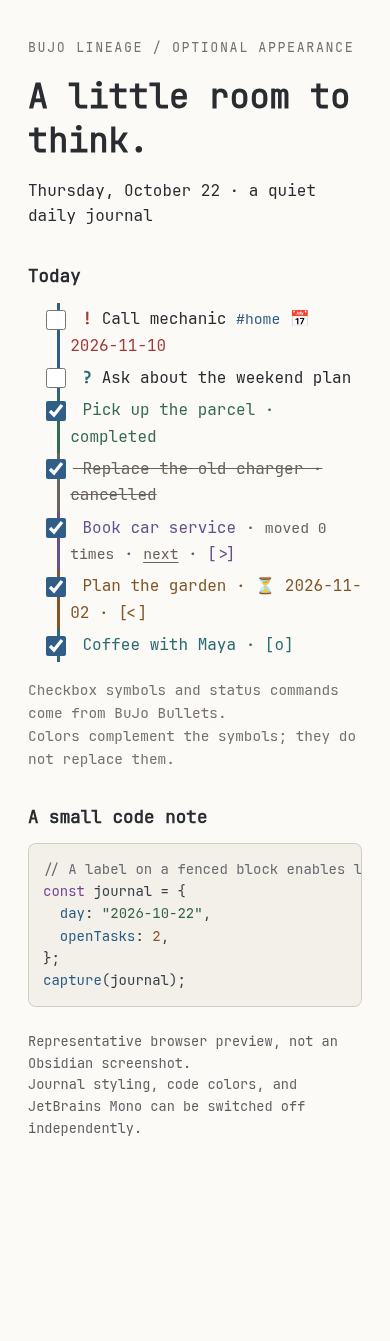
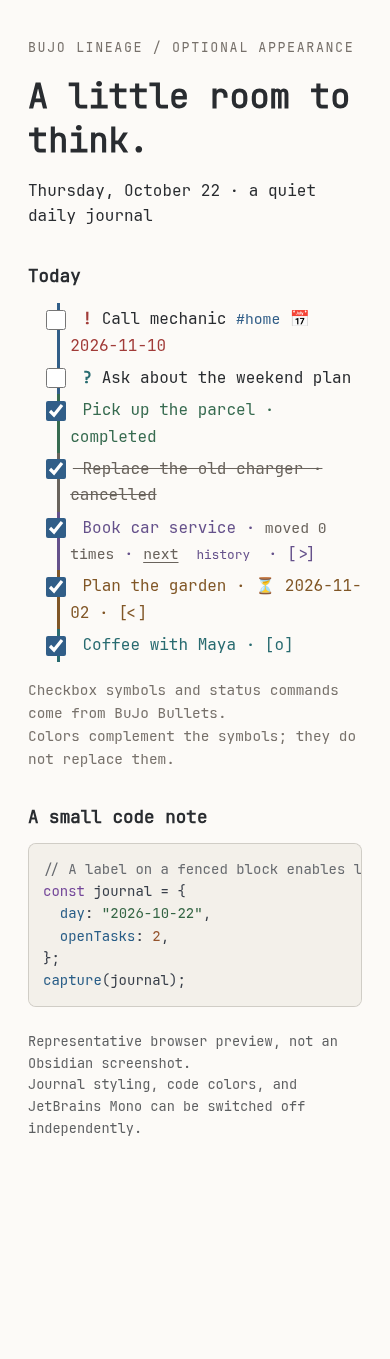
Collapse lineage metadata in Live Preview and clarify optional code colors

diff --git a/tests/appearance-browser.ts b/tests/appearance-browser.ts
@@ -1,7 +1,9 @@
 import {Appearance,decorateJournal,journalTokens} from '../src/appearance';
 import {journalHighlights} from '../src/editor-highlights';
 import {EditorView} from '@codemirror/view';
-import {EditorState} from '@codemirror/state';
+import {EditorState,StateField,StateEffect} from '@codemirror/state';
+import {metadataPreview} from '../src/metadata-preview';
+import {encode} from '../src/lineage';
 import {markdown} from '@codemirror/lang-markdown';
 const results:string[]=[];
 function check(ok:unknown,message:string) {if(!ok)throw Error(message);results.push(message);}
@@ -52,6 +54,32 @@ try {
   appearance.apply({journalStyling:false,codeHighlighting:false,preferJetBrainsMono:false});
   check(getComputedStyle(root).fontFamily===themeFont,'disabling font preference restores theme font');
   appearance.apply({journalStyling:false,codeHighlighting:false,preferJetBrainsMono:true});
+  const mode=StateEffect.define<boolean>();
+  const preview=StateField.define<boolean>({create:()=>true,update:(value,tr)=>{for(const effect of tr.effects)if(effect.is(mode))value=effect.value;return value;}});
+  const record={v:1 as const,lineage:'task-test',occurrence:'occ-test',count:1,previous:'occ-before',action:'migrate' as const,timestamp:'2026-10-21T18:00:00Z',operation:'op-test'};
+  const raw='- [ ] Call mechanic · moved 1 time · [[Yesterday#^occ-before|previous]] '+encode(record)+' ⏳ 2026-11-02 ^occ-test';
+  const host=document.createElement('div');root.append(host);let opened='';
+  const compact=new EditorView({state:EditorState.create({doc:raw,extensions:[markdown(),preview,metadataPreview(state=>state.field(preview),(v,p)=>{opened=v.state.doc.lineAt(p).text;})]}),parent:host});
+  check(host.querySelectorAll('.bujo-lineage-history-chip').length===1,'Live Preview replaces valid history metadata with one compact button');
+  check(!host.querySelector('.cm-content')!.textContent!.includes('%7B') && !host.querySelector('.cm-content')!.textContent!.includes('^occ-test'),'encoded metadata and the generated anchor stay out of visible task text');
+  check(host.querySelector('.cm-content')!.textContent!.includes('⏳ 2026-11-02'),'scheduled fields remain readable beside the compact history indicator');
+  check(compact.state.doc.toString()===raw,'compact metadata rendering preserves the complete stored Markdown');
+  (host.querySelector('.bujo-lineage-history-chip') as HTMLButtonElement).click();
+  check(opened===raw,'history button resolves its current task through editor position');
+  compact.dispatch({selection:{anchor:raw.indexOf('<!--')+20}});
+  check(host.querySelectorAll('.bujo-lineage-history-chip').length===1,'moving the cursor into metadata does not expose the encoded payload in Live Preview');
+  compact.dispatch({changes:{from:6,to:19,insert:'Phone garage'}});
+  (host.querySelector('.bujo-lineage-history-chip') as HTMLButtonElement).click();
+  check(opened===compact.state.doc.toString() && compact.state.doc.toString().includes(encode(record)),'editing task wording preserves metadata and history button targeting');
+  compact.dispatch({effects:mode.of(false)});
+  check(!host.querySelector('.bujo-lineage-history-chip') && host.textContent!.includes('%7B'),'Source mode reveals original raw metadata for inspection');
+  const invalid=raw.replace(encode(record),'<!--bujo-lineage:broken-->');
+  compact.dispatch({changes:{from:0,to:compact.state.doc.length,insert:invalid},effects:mode.of(true)});
+  check(!host.querySelector('.bujo-lineage-history-chip') && host.textContent!.includes('bujo-lineage:broken'),'malformed metadata remains visible for repair');
+  const fenced='```md\n'+raw+'\n```';
+  compact.dispatch({changes:{from:0,to:compact.state.doc.length,insert:fenced}});
+  check(!host.querySelector('.bujo-lineage-history-chip'),'fenced code examples are never collapsed into history widgets');
+  compact.destroy();
   view.destroy();appearance.clear();
   check(!document.body.classList.contains('bujo-lineage-mono'),'unload removes font preference class');
   document.getElementById('results')!.textContent='PASS '+results.length+' browser checks\n'+results.join('\n');

diff --git a/src/metadata-preview.ts b/src/metadata-preview.ts
@@ -1,0 +1,57 @@
+import type { EditorState } from '@codemirror/state';
+import { syntaxTree } from '@codemirror/language';
+import { Decoration, DecorationSet, EditorView, ViewPlugin, ViewUpdate, WidgetType } from '@codemirror/view';
+import { decode } from './lineage';
+
+type OpenHistory=(view:EditorView,position:number)=>void;
+class HistoryWidget extends WidgetType {
+  constructor(private occurrence:string,private count:number,private open?:OpenHistory) {super();}
+  eq(other:HistoryWidget) {return this.occurrence===other.occurrence && this.count===other.count;}
+  toDOM(view:EditorView):HTMLElement {
+    const button=view.dom.ownerDocument.createElement('button');
+    button.type='button';button.className='bujo-lineage-history-chip';button.textContent='history';
+    button.title='Open task history. Raw metadata remains available in Source mode.';
+    button.setAttribute('aria-label',`View task history, migration count ${this.count}`);
+    button.onclick=event=>{event.preventDefault();this.open?.(view,view.posAtDOM(button));};
+    return button;
+  }
+  ignoreEvent() {return true;}
+}
+function hiddenMetadata(view:EditorView,live:(state:EditorState)=>boolean,open?:OpenHistory):DecorationSet {
+  if(!live(view.state))return Decoration.none;
+  const ranges=[];const seen=new Set<number>();
+  for(const visible of view.visibleRanges) {
+    for(let position=visible.from;position<=visible.to;) {
+      const line=view.state.doc.lineAt(position);
+      if(!seen.has(line.number) && /^\s*(?:[-+*]|\d+[.)]) \[.\] /.test(line.text)) {
+        seen.add(line.number);
+        let node=syntaxTree(view.state).resolveInner(line.from+line.text.search(/\[[^\]]\]/),1);let code=false;
+        for(;;) {if(/code|comment|frontmatter/i.test(node.name))code=true;if(!node.parent)break;node=node.parent;}
+        if(!code) {
+          try {
+            const meta=decode(line.text);
+            const comment=line.text.match(/<!--bujo-lineage:[^]*?-->/);
+            const anchor=line.text.match(/ \^([A-Za-z0-9-]+)\s*$/);
+            if(meta && comment && anchor?.[1]===meta.occurrence) {
+              const from=line.from+comment.index!;
+              ranges.push(Decoration.replace({widget:new HistoryWidget(meta.occurrence,meta.count,open)}).range(from,from+comment[0].length));
+              ranges.push(Decoration.replace({}).range(line.from+anchor.index!,line.to));
+            }
+          } catch { /* Malformed/unknown records stay visible for repair, never hidden. */ }
+        }
+      }
+      if(line.to>=visible.to)break;position=line.to+1;
+    }
+  }
+  return Decoration.set(ranges,true);
+}
+/** Hide only validated metadata in Live Preview; Source mode and Markdown stay raw. */
+export function metadataPreview(live:(state:EditorState)=>boolean,open?:OpenHistory) {
+  return ViewPlugin.fromClass(class {
+    decorations:DecorationSet;
+    constructor(view:EditorView) {this.decorations=hiddenMetadata(view,live,open);}
+    update(update:ViewUpdate) {
+      if(update.docChanged || update.viewportChanged || live(update.startState)!==live(update.state) || syntaxTree(update.startState)!==syntaxTree(update.state))this.decorations=hiddenMetadata(update.view,live,open);
+    }
+  },{decorations:plugin=>plugin.decorations,provide:plugin=>EditorView.atomicRanges.of(view=>view.plugin(plugin)?.decorations || Decoration.none)});
+}

diff --git a/docs/appearance-preview.html b/docs/appearance-preview.html
@@ -10,7 +10,7 @@
 <li class="task-list-item bujo-lineage-task bujo-lineage-status-open" data-task=" "><input class="task-list-item-checkbox" type="checkbox"> <span class="bujo-lineage-token bujo-lineage-question">?</span> Ask about the weekend plan</li>
 <li class="task-list-item bujo-lineage-task bujo-lineage-status-done" data-task="x"><input class="task-list-item-checkbox" type="checkbox" checked> Pick up the parcel · completed</li>
 <li class="task-list-item bujo-lineage-task bujo-lineage-status-cancelled" data-task="-"><input class="task-list-item-checkbox" type="checkbox" checked> Replace the old charger · cancelled</li>
-<li class="task-list-item bujo-lineage-task bujo-lineage-status-migrated" data-task=">"><input class="task-list-item-checkbox" type="checkbox" checked> Book car service · <span class="bujo-lineage-token bujo-lineage-count">moved 0 times</span> · <a class="bujo-lineage-nav" href="#">next</a> · [>]</li>
+<li class="task-list-item bujo-lineage-task bujo-lineage-status-migrated" data-task=">"><input class="task-list-item-checkbox" type="checkbox" checked> Book car service · <span class="bujo-lineage-token bujo-lineage-count">moved 0 times</span> · <a class="bujo-lineage-nav" href="#">next</a> <button type="button" class="bujo-lineage-history-chip">history</button> · [>]</li>
 <li class="task-list-item bujo-lineage-task bujo-lineage-status-scheduled" data-task="<"><input class="task-list-item-checkbox" type="checkbox" checked> Plan the garden · <span class="bujo-lineage-token bujo-lineage-scheduled">⏳ 2026-11-02</span> · [&lt;]</li>
 <li class="task-list-item bujo-lineage-task bujo-lineage-status-event" data-task="o"><input class="task-list-item-checkbox" type="checkbox" checked> Coffee with Maya · [o]</li>
 </ul>

diff --git a/src/index.ts b/src/index.ts
@@ -1,6 +1,8 @@
 import { Appearance, decorateJournal } from './appearance';
 import { journalHighlights } from './editor-highlights';
-import { Plugin } from 'obsidian';
+import { metadataPreview } from './metadata-preview';
+import { selected } from './lineage';
+import { editorLivePreviewField, Plugin } from 'obsidian';
 import { LineageController } from './obsidian-adapter';
 import { BuJoPluginSettings, BuJoPluginSettingTab, DEFAULT_SETTINGS } from './settings';
 
@@ -18,6 +20,10 @@ export default class BuJoLineagePlugin extends Plugin {
     this.registerEvent(this.app.workspace.on('window-open', (_win, window) => this.appearance.attach(window.document.body)));
     this.registerEvent(this.app.workspace.on('window-close', (_win, window) => this.appearance.detach(window.document.body)));
     this.registerEditorExtension(journalHighlights);
+    this.registerEditorExtension(metadataPreview(state => state.field(editorLivePreviewField, false) === true, (view, position) => {
+      try {void this.lineage.showHistory(selected(view.state.doc.toString(), view.state.doc.lineAt(position).number - 1));}
+      catch (error) {this.lineage.notice(error);}
+    }));
     this.registerMarkdownPostProcessor(element => decorateJournal(element));
     this.addSettingTab(new BuJoPluginSettingTab(this.app, this));
     this.lineage = new LineageController(this);

diff --git a/src/settings.ts b/src/settings.ts
@@ -13,7 +13,7 @@ export interface BuJoPluginSettings {
 export const DEFAULT_SETTINGS: BuJoPluginSettings = {
   preferJetBrainsMono: true,
   journalStyling: true,
-  codeHighlighting: true,
+  codeHighlighting: false,
   dailyFolder: '',
   dailyFormat: 'YYYY-MM-DD',
   futureLog: 'Future Log.md',
@@ -28,7 +28,7 @@ export class BuJoPluginSettingTab extends PluginSettingTab {
     for (const [key, name, description] of [
       ['preferJetBrainsMono', 'Prefer JetBrains Mono', 'Use bundled JetBrains Mono for note text and code, including on iPhone. Turn off to use your theme fonts.'],
       ['journalStyling', 'BuJo journal styling', 'Quiet light/dark task colors, dates, signifiers, history links, and larger mobile checkbox controls.'],
-      ['codeHighlighting', 'Code highlighting', 'Coordinated syntax colors and scrollable code blocks. Fenced code needs a language label.'],
+      ['codeHighlighting', 'Code block color styling', 'Optional colors and spacing only. Obsidian already provides syntax highlighting; leave off to use your theme.'],
     ] as const) {
       new Setting(this.containerEl).setName(name).setDesc(description).addToggle(toggle => toggle.setValue(this.plugin.settings[key]).onChange(async value => {
         this.plugin.settings[key] = value;

diff --git a/styles.css b/styles.css
@@ -254,3 +254,26 @@ body.bujo-lineage-journal .bujo-lineage-task input.task-list-item-checkbox {
 /* Do not use task-line pseudo-elements: Live Preview/themes own their layout. */
 
 body.bujo-lineage-journal .bujo-lineage-status-open { color: var(--text-normal, inherit); }
+
+/* A real inline widget, not a line pseudo-element. Never displays encoded payloads. */
+.bujo-lineage-history-chip {
+  display: inline-flex;
+  position: static;
+  align-items: center;
+  vertical-align: baseline;
+  min-height: 24px;
+  height: auto;
+  margin: 0 0.25em;
+  padding: 0.05em 0.4em;
+  font: inherit;
+  font-size: 0.8em;
+  line-height: 1.4;
+  color: var(--text-muted);
+  background: var(--background-secondary);
+  border: 1px solid var(--background-modifier-border);
+  border-radius: 4px;
+  box-shadow: none;
+  cursor: pointer;
+}
+.bujo-lineage-history-chip:focus-visible {outline: 2px solid var(--interactive-accent);outline-offset: 2px;}
+@media (pointer: coarse) {.bujo-lineage-history-chip {min-height: 44px;}}

diff --git a/tests/obsidian-mock.ts b/tests/obsidian-mock.ts
@@ -12,3 +12,5 @@ export class Setting {}
 export function moment(){const d=new Date();return {add(n:number){d.setDate(d.getDate()+n);return this;},format(){return `${d.getFullYear()}-${String(d.getMonth()+1).padStart(2,'0')}-${String(d.getDate()).padStart(2,'0')}`;}};}
 export class Plugin { addSettingTab() {} register() {} registerEditorExtension() {} }
 export class PluginSettingTab {}
+// Public Obsidian Live Preview field; adapter doubles do not instantiate editors.
+export const editorLivePreviewField = {};

diff --git a/README.md b/README.md
@@ -10,11 +10,11 @@ Repository: [solidline/bujo-lineage](https://github.com/solidline/bujo-lineage).
 
 With [BRAT](https://github.com/TfTHacker/obsidian42-brat) installed, run **BRAT: Add a beta plugin for testing**, enter `solidline/bujo-lineage`, and add it. Keep **BuJo Bullets** enabled and enable **BuJo Lineage** alongside it in Community plugins. BRAT is an optional installer/updater, not a runtime dependency.
 
-For manual installation, download `bujo-lineage-0.3.3.zip` from the [latest release](https://github.com/solidline/bujo-lineage/releases/latest) and follow the folder instructions below. The release also includes direct `main.js`, `manifest.json`, and `styles.css` assets for Obsidian installers. This add-on has not been submitted to Obsidian's community plugin directory.
+For manual installation, download `bujo-lineage-0.3.4.zip` from the [latest release](https://github.com/solidline/bujo-lineage/releases/latest) and follow the folder instructions below. The release also includes direct `main.js`, `manifest.json`, and `styles.css` assets for Obsidian installers. This add-on has not been submitted to Obsidian's community plugin directory.
 
 ## Install the built version
 
-1. Download and extract `bujo-lineage-0.3.3.zip`, or copy `dist/bujo-lineage/` from this repository.
+1. Download and extract `bujo-lineage-0.3.4.zip`, or copy `dist/bujo-lineage/` from this repository.
 2. Put its folder at `<vault>/.obsidian/plugins/bujo-lineage/`. That folder must directly contain `main.js`, `manifest.json`, `styles.css`, and the license files, with no extra nested folder.
 3. **Keep the original BuJo Bullets plugin enabled.** It provides checkbox styles, configurable signifiers, and manual status commands. BuJo Lineage adds migration, scheduling, history, and recovery plus optional appearance; it does not duplicate status commands or replace BuJo symbols.
 4. Reload Obsidian, open Settings → Community plugins, and enable **BuJo Lineage**. Requires Obsidian 1.8.0 or later. Use a disposable vault first.
@@ -30,11 +30,11 @@ The repository is now `solidline/bujo-lineage`. If BRAT still tracks the old `so
 
 ## Optional journal and code appearance (0.3.0)
 
-In **Settings → BuJo Lineage → Appearance**, use independent toggles, all enabled by default:
+In **Settings → BuJo Lineage → Appearance**, use independent appearance toggles:
 
 - **Prefer JetBrains Mono**: bundled JetBrains Mono Regular for note text and code. Works offline without a separate font installation, including on iPhone. Disable it to restore theme fonts. It leaves workspace navigation and UI fonts alone.
 - **BuJo journal styling**: restrained light/dark task colors, comfortable line spacing, distinct `!`/`?` accents, scheduled and due date highlighting, quiet migration counts and previous/next links, and tags. Touch devices receive 44-pixel checkbox targets. Status symbols and text remain meaningful without color.
-- **Code highlighting**: coordinated syntax colors using Obsidian's existing language parsers and horizontally scrollable fenced code. Label code fences with a language such as `python`, `javascript`, or `json`. Unsupported languages remain plain text; this setting does not install new language parsers.
+- **Code block color styling** (off by default): optional colors and spacing only. Obsidian already provides syntax highlighting without this plugin. Enabling this setting coordinates colors and horizontally scrollable fenced code. Label code fences with a language such as `python`, `javascript`, or `json`. Unsupported languages remain plain text; this setting does not install new language parsers.
 
 The color styles follow Obsidian's light/dark mode and leave workspace panels and note backgrounds intact. The font preference is independent of both color toggles. Turn a toggle off to restore that part of your theme. BuJo Bullets still owns symbols, signifier configuration, and status commands. This optional styling is a visual layer on top, not a replacement plugin.
 
@@ -85,7 +85,7 @@ Three identities are distinct:
 - **Occurrence ID**: unique per appearance; generated as `occ-` plus 128 random bits.
 - **Obsidian block ID**: equal to that occurrence ID. A pre-existing valid source block ID is retained and becomes that occurrence's ID.
 
-IDs use browser cryptographic randomness, never task wording, a filename, date, or line number. Source and destination references contain **occurrence IDs, not paths**. A versioned hidden inline HTML comment belongs to the same task line. It precedes trailing Tasks emoji fields, with the block anchor last. This placement matters: Tasks parses dates from the end after removing the anchor; putting the comment after dates would prevent their recognition. The comment is part of the description and is hidden in rendered Markdown; it is visible in source mode. Displayed navigation/count text is not authoritative metadata.
+IDs use browser cryptographic randomness, never task wording, a filename, date, or line number. Source and destination references contain **occurrence IDs, not paths**. A versioned hidden inline HTML comment belongs to the same task line. It precedes trailing Tasks emoji fields, with the block anchor last. Live Preview replaces a validated comment and its anchor visually with a small **history** button; tap it to open task history. Source mode shows the raw data. Malformed records remain visible for repair. The Markdown itself is never changed by this display. This placement matters: Tasks parses dates from the end after removing the anchor; putting the comment after dates would prevent their recognition. The comment is part of the description and is hidden in rendered Markdown; it is visible in Source mode. In Live Preview, the compact history indicator keeps the task readable even while editing its wording. Displayed navigation/count text is not authoritative metadata.
 
 The comment contains `encodeURIComponent(JSON.stringify(record))`, additionally encoding every hyphen as `%2D` to prevent arbitrary reason text from forming `-->`. Newlines, Unicode, `<script>`, and comment terminators round-trip as data. Stored text is never executed or inserted as HTML in modals.
 
@@ -197,3 +197,7 @@ JetBrains Mono is copyright The JetBrains Mono Project Authors and is bundled un
 ### Seeing only standard checkboxes?
 
 Update to 0.3.3 or newer through BRAT, reload Obsidian, and enable **BuJo journal styling** in BuJo Lineage settings. Tasks have explicit colored side markers and checkbox accents in the editor and rendered notes. Status symbols remain provided by BuJo Bullets. Version 0.3.3 removes the experimental inline status pills because they could overlap text in Live Preview themes. Live Preview no longer needs a data-task attribute on the task line for these styles. Keep BuJo Bullets enabled for its custom checkbox symbols. Migration counts and previous/next links are created by transferring a task; they do not appear automatically on ordinary capture tasks.
+
+### Code syntax highlighting is already built in
+
+Obsidian supplies syntax highlighting. Lineage does not add language parsers. The old Code highlighting preference is now called **Code block color styling**, defaults off on new installs, and is purely cosmetic. Existing saved choices are preserved; turn this setting off to use Obsidian/the theme for code colors. The JetBrains Mono preference remains independent.

diff --git a/docs/RELEASE-NOTES.md b/docs/RELEASE-NOTES.md
@@ -1,7 +1,9 @@
-BuJo Lineage 0.3.3 fixes overlapping status text and extra empty pill outlines in Live Preview.
+BuJo Lineage 0.3.4 makes migrated tasks readable while editing in Live Preview.
 
-The experimental status badges are removed. They used task-line pseudo-elements whose positioning can be controlled by Obsidian or a theme, causing labels to overlap text. Colored side markers, checkbox accents, syntax highlighting, and the JetBrains Mono preference remain. BuJo Bullets continues to supply checkbox status symbols.
+Validated lineage metadata and its block anchor are replaced visually with a compact, tappable history button. Task wording, counts, previous/next links, and dates remain visible. Tap history to open the task history modal. Source mode retains the full raw comment and anchor. Existing notes need no rewriting; stored Markdown and history schema are unchanged. Malformed records remain visible for repair, and fenced examples are excluded.
 
-Update through BRAT and reload Obsidian. Keep BuJo journal styling enabled. No task text, identities, dates, or history is changed.
+Obsidian already provides code syntax highlighting. The former Code highlighting setting is renamed Code block color styling, is off by default for new installs, and only provides optional colors/spacing. Existing saved preferences are preserved: turn it off to use your theme's code styling. JetBrains Mono is independent.
 
-22 core/adapter tests and 29 Chromium checks pass, plus build, lint, and type checking. Regression checks emulate a theme's absolutely positioned task-line pseudo-elements and verify that no status label or empty pill border is added. Live Obsidian/iPhone rendering remains unverified.
+Update through BRAT and reload Obsidian. Use Live Preview for compact history display. Keep BuJo Bullets enabled for checkbox symbols.
+
+22 core/adapter tests and 39 browser checks pass, plus build, lint, and type checking. New checks cover unchanged Markdown, hidden metadata/anchor, preserved dates, Source mode, cursor behavior, history button targeting after edits, malformed records, and fenced code. Live Obsidian and iPhone verification remains necessary.

diff --git a/docs/MANUAL-CHECKS.md b/docs/MANUAL-CHECKS.md
@@ -42,3 +42,7 @@ Use a disposable vault and record Obsidian/Tasks versions and OS. Copy sample-va
 5. In a desktop popout, toggle appearance, switch modes, close the popout, then unload the plugin. No Lineage body classes should remain. Highlighting must never change Markdown, identity comments, Tasks fields, or block anchors.
 
 6. Toggle Prefer JetBrains Mono with both color toggles off. Confirm note text, Live Preview/Source mode, inline code and fenced code use the bundled font while sidebar/UI fonts remain unchanged. Disable it to restore theme fonts. Repeat offline on iPhone; check fallback emoji and non-Latin glyphs, popout windows, and plugin unload.
+
+## Compact metadata (0.3.4)
+
+Migrate a task, then edit its wording in Live Preview. The encoded HTML comment and block ID should be replaced visually by one history button; the count, previous/next navigation and Tasks dates should remain readable. Tap history from source and destination to confirm the correct task opens. Move the cursor through the line and edit adjacent text. Switch to Source mode to verify the unchanged comment and block anchor, then back to Live Preview. Verify copied/edited tasks retain IDs and that code examples and malformed comments are not silently hidden. In settings, Code block color styling is optional: Obsidian syntax highlighting continues with it off.

diff --git a/docs/VALIDATION.md b/docs/VALIDATION.md
@@ -29,3 +29,5 @@ Version 0.3.1: the browser suite now passes **25 checks**, including bundled Jet
 Version 0.3.2: 28 Chromium checks pass, including all six explicit editor-line status decorations without host data-task attributes, visible open labels, and distinct done/migrated side markers. This tests the reported selector mismatch using real CodeMirror fixtures, not a live Obsidian app.
 
 Version 0.3.3: 29 browser checks pass. A regression fixture with theme-owned, absolutely positioned cm-line::after pseudo-elements verifies that Lineage adds neither status text nor outlined pills to them. Status classes/side markers remain intact. Live Obsidian rendering still requires user verification.
+
+Version 0.3.4: 39 browser checks pass. Metadata fixtures verify compact Live Preview rendering, hidden encoded payload and block anchor, preserved scheduled dates and full Markdown, history button targeting before/after wording edits, stable display with cursor inside metadata, raw Source mode inspection, malformed-record visibility, and fenced-code exclusions. This uses real CodeMirror with a simulated Live Preview state field, not live Obsidian.
